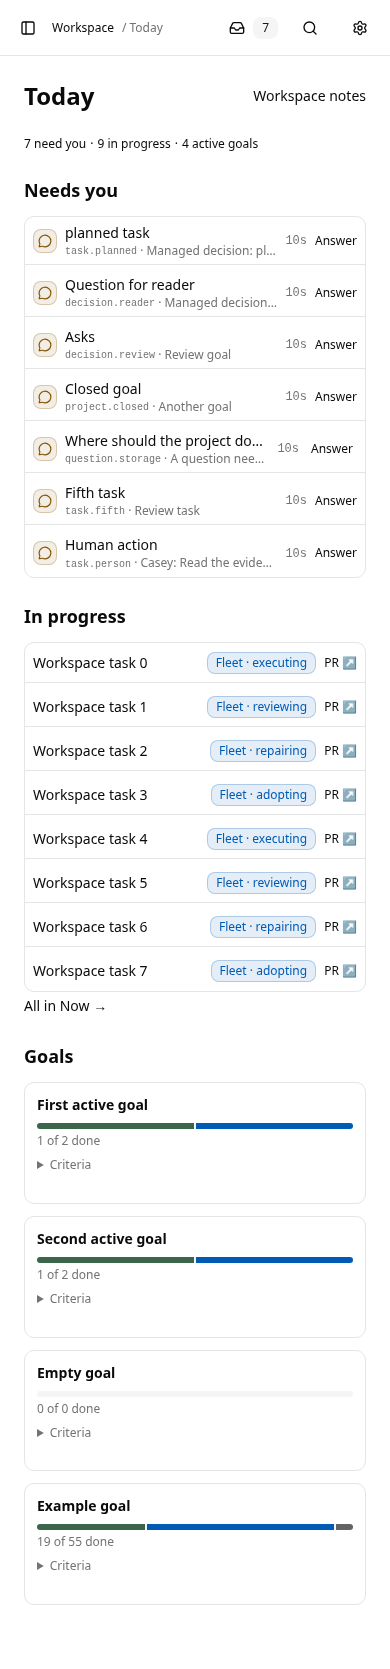
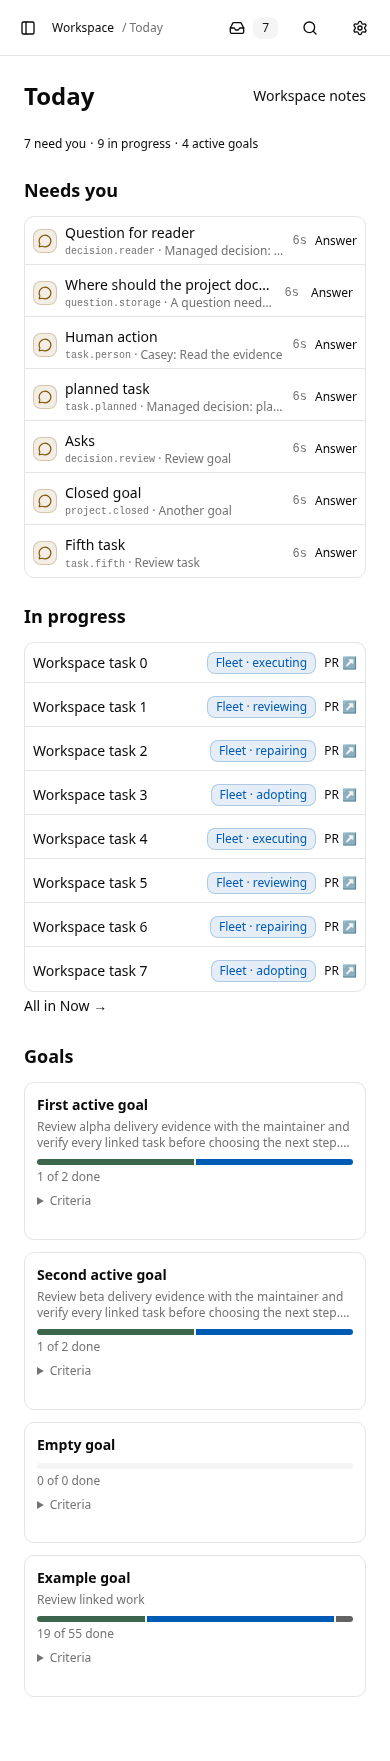
Show each Today goal's next action in two lines

diff --git a/packages/work-board/src/test-support/todayFixture.ts b/packages/work-board/src/test-support/todayFixture.ts
@@ -10,7 +10,7 @@ export function todayFixture(): Record<string, string> {
 			["alpha", "beta"].flatMap((name) => [
 				[
 					`goals/${name}.md`,
-					`---\nid: project.${name}\nkind: project\nstatus: active\ncriteria:\n${Array.from({ length: 30 }, (_, index) => ` - id: proof-${index}\n   text: Evidence criterion ${index}`).join("\n")}\n---\n# ${name === "alpha" ? "First" : "Second"} active goal\n`,
+					`---\nid: project.${name}\nkind: project\nstatus: active\nnext_action: Review ${name} delivery evidence with the maintainer and verify every linked task before choosing the next step. Record the remaining questions and arrange a follow-up review once the evidence is complete.\ncriteria:\n${Array.from({ length: 30 }, (_, index) => ` - id: proof-${index}\n   text: Evidence criterion ${index}`).join("\n")}\n---\n# ${name === "alpha" ? "First" : "Second"} active goal\n`,
 				],
 				...["done", "active"].map((status) => [
 					`goals/${name}-${status}.md`,

diff --git a/packages/work-board/src/client/react/todayOverview.dom.spec.tsx b/packages/work-board/src/client/react/todayOverview.dom.spec.tsx
@@ -48,6 +48,17 @@ it("opens Today with the exact human lane and one honest card per goal, retainin
 		expect([...view.container.querySelectorAll("[data-goal-id]")].map((card) => card.getAttribute("data-goal-id"))).toEqual(
 			goals.goals.map((goal) => goal.id),
 		);
+		expect(view.container.querySelectorAll("[data-goal-next-action]")).toHaveLength(3);
+		for (const goal of goals.goals) {
+			const next = view.container.querySelector(`[data-goal-id='${goal.id}'] [data-goal-next-action]`);
+			if (goal.nextAction) {
+				expect(next?.textContent).toBe(goal.nextAction);
+				expect(next?.getAttribute("title")).toBe(goal.nextAction);
+				expect(next?.classList.contains("line-clamp-2")).toBe(true);
+			} else {
+				expect(next).toBeNull();
+			}
+		}
 		expect(view.container.querySelector(".today-strip")?.textContent).toBe(
 			`${inbox.you.length} need you·9 in progress·${goals.goals.length} active goals`,
 		);

diff --git a/packages/work-board/src/client/react/TodayGoals.tsx b/packages/work-board/src/client/react/TodayGoals.tsx
@@ -18,6 +18,11 @@ function GoalCard({ goal }: { readonly goal: GoalsProjection["goals"][number] })
 			<h3 className="m-0 font-semibold text-sm">
 				<a href={`/_board/item/${encodeURIComponent(goal.id)}/`}>{goal.title}</a>
 			</h3>
+			{goal.nextAction ? (
+				<p className="m-0 mt-1 line-clamp-2 text-muted-foreground text-xs" data-goal-next-action="" title={goal.nextAction}>
+					{goal.nextAction}
+				</p>
+			) : null}
 			<GoalProgress counts={goal.counts} title={goal.title} />
 			<details className="mt-2">
 				<summary className="cursor-pointer text-muted-foreground text-xs">Criteria</summary>

diff --git a/packages/work-board/README.md b/packages/work-board/README.md
@@ -48,7 +48,7 @@ The work has three parts: choose a workspace once, author useful files per featu
 work-board ./project-notes --home plan.md
 ```
 
-This serves the existing folder on `http://127.0.0.1:4747`. The first screen at `/` is **Today**: a linked summary, **Needs you**, **In progress** and **Goals**. Human asks come from the same lane as Inbox. Needs-you entries stay within 48px. For questions with one-choice options, Answer opens a popover with buttons that record an answer against the current reviewed context. In progress shows up to eight items Fleet holds in executing, reviewing, repairing or adopting, with their stage and recorded PR link; **All in Now →** opens the full work view. Its summary counts all held items, including those beyond the preview. An unavailable Fleet source shows an unknown count. Goal cards show done, in-progress and planned work with an **N of M done** count; criteria and their evidence counts sit behind a closed **Criteria** disclosure. These counts describe recorded source, not verified success. The optional home file remains a heading board through **Workspace notes**; other files remain documents. An empty Today links to getting-started guidance. **Getting started** remains available at `/_board/start`, with copyable project, investigation and agent-result templates. Save them through your editor or agent tool; the reader does not create files.
+This serves the existing folder on `http://127.0.0.1:4747`. The first screen at `/` is **Today**: a linked summary, **Needs you**, **In progress** and **Goals**. Human asks come from the same lane as Inbox. Needs-you entries stay within 48px. For questions with one-choice options, Answer opens a popover with buttons that record an answer against the current reviewed context. In progress shows up to eight items Fleet holds in executing, reviewing, repairing or adopting, with their stage and recorded PR link; **All in Now →** opens the full work view. Its summary counts all held items, including those beyond the preview. An unavailable Fleet source shows an unknown count. Goal cards show the next action clamped to two lines and done, in-progress and planned work with an **N of M done** count; criteria and their evidence counts sit behind a closed **Criteria** disclosure. These counts describe recorded source, not verified success. The optional home file remains a heading board through **Workspace notes**; other files remain documents. An empty Today links to getting-started guidance. **Getting started** remains available at `/_board/start`, with copyable project, investigation and agent-result templates. Save them through your editor or agent tool; the reader does not create files.
 
 A heading board uses `#` for its title, text before the first `##` for its intro, `##` for sections and `###` for cards. A section without cards shows its text. A `---` after the last heading starts the footer; a divider inside a card before another heading stays in that card. Code spans, reference links, footnotes and `<details>` can stay in the Markdown body. Leave a blank line after `<summary>` and before `</details>` when its content is Markdown.
 

diff --git a/packages/work-board/docs/north-star.md b/packages/work-board/docs/north-star.md
@@ -4,7 +4,7 @@ Work Board is a local, file-backed workspace for a person and their agents to un
 
 The [roadmap](roadmap.md) owns implementation status, acceptance gaps and open maintainer decisions. The [README](../README.md) teaches current use. The [experience design](experience.md) and [interactive prototype](mockups/index.html) illustrate the product direction with fictional data. The [delivery requirements](delivery/README.md) define bounded steps and how to verify them, without keeping a second status list.
 
-Today is the first screen. It puts the human’s live asks and answers beside compact goal progress. In progress names the work Fleet holds, its stage and its recorded PR; the preview stays short and links to Now for the full view. Goal cards show done work against all linked work, with criteria and evidence behind a closed disclosure. Agent asks, resolved work and parked work remain in Inbox. Configured home Markdown remains reachable as Workspace notes. Narrow screens read summary, human asks, in-progress work and goals in order; wide screens put goals beside the asks and in-progress work.
+Today is the first screen. It puts the human’s live asks and answers beside compact goal progress. In progress names the work Fleet holds, its stage and its recorded PR; the preview stays short and links to Now for the full view. Goal cards show the next action in at most two lines and done work against all linked work, with criteria and evidence behind a closed disclosure. Agent asks, resolved work and parked work remain in Inbox. Configured home Markdown remains reachable as Workspace notes. Narrow screens read summary, human asks, in-progress work and goals in order; wide screens put goals beside the asks and in-progress work.
 
 ## The problem
 

diff --git a/packages/work-board/changes/today.md b/packages/work-board/changes/today.md
@@ -1,6 +1,6 @@
 ### Changed
 
-- Open on Today with human asks, compact ask rows with option answers in popovers, compact goal progress with collapsed criteria, and up to eight Fleet-held items with their stages and PR links. Keep configured home Markdown reachable as Workspace notes.
+- Open on Today with human asks, compact ask rows with option answers in popovers, compact goal progress with next actions clamped to two lines and collapsed criteria, and up to eight Fleet-held items with their stages and PR links. Keep configured home Markdown reachable as Workspace notes.
 
 ### Fixed
 
